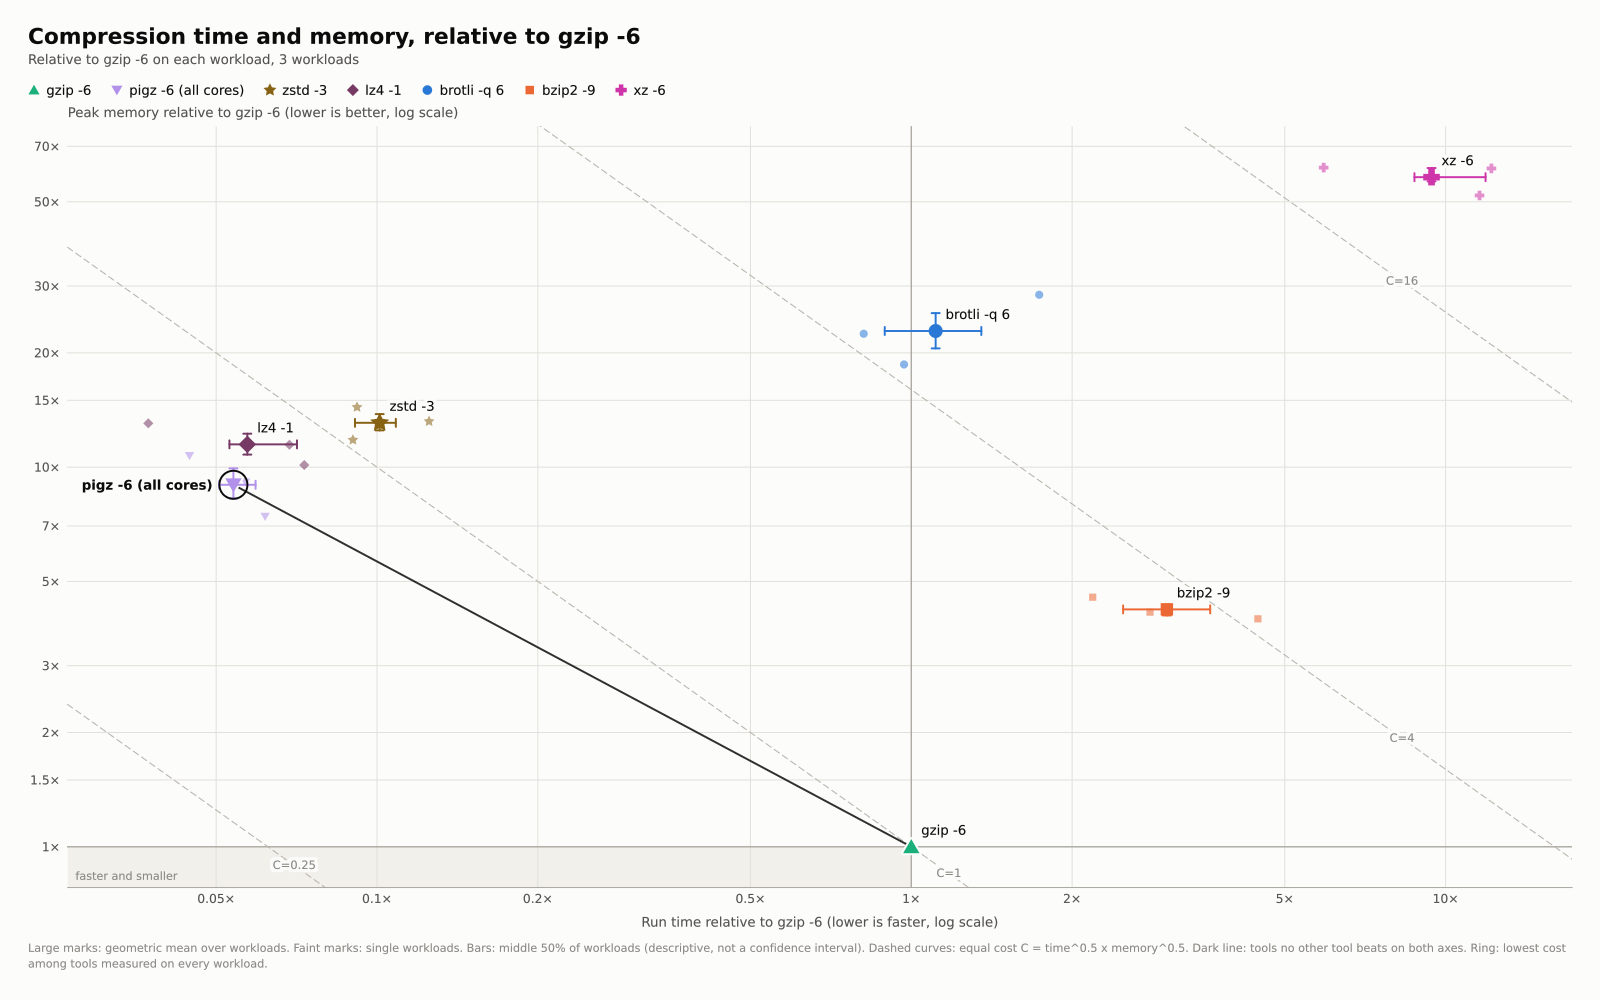
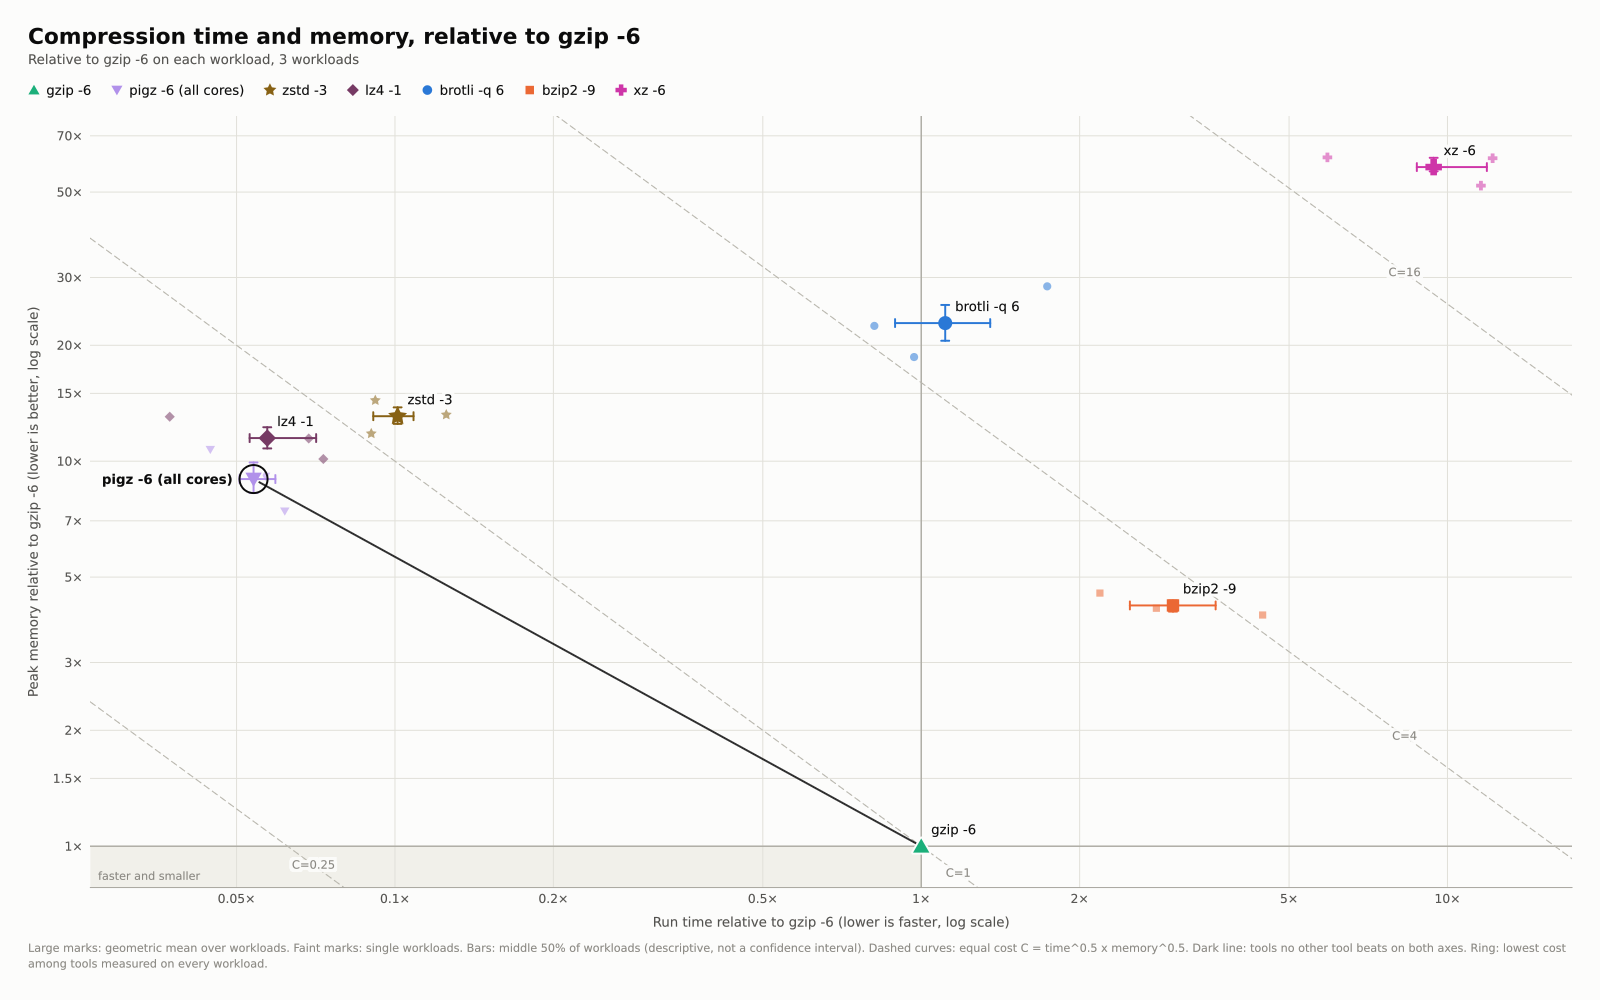
fix: change y-axis to y rotated, (was hard to see)

diff --git a/src/view_overview.c b/src/view_overview.c
@@ -187,7 +187,8 @@ Scene *view_overview(const Figure *f, const Config *c, const FigureSize *size, V
         legend_draw(sc, &st, entries, nvis, LEGEND_TOP, M, top, legend_extent);
         top += legend_h + 0.3f * u;
     }
-    float plot_top = top + 0.9f * u + font_cap_height(st.axis, 0);
+    /* Half a tick label of headroom, so the top tick label stays below the legend. */
+    float plot_top = top + 0.5f * u + 0.5f * font_cap_height(st.tick, 0);
     float bottom = (float)H - M - note_h - (note_count ? 0.6f * u : 0);
     if (c->legend == LEGEND_BOTTOM && legend_h > 0) bottom -= legend_h + 0.5f * u;
     float plot_bottom = bottom - 1.25f * st.tick - 1.0f * u - font_cap_height(st.axis, 0) - 0.4f * u;
@@ -212,7 +213,9 @@ Scene *view_overview(const Figure *f, const Config *c, const FigureSize *size, V
         axis_tick_label(&ay, yticks, ny, i, buffer, sizeof(buffer));
         ytick_w = fmaxf(ytick_w, font_width(buffer, st.tick, 0));
     }
-    ax.p0 = M + ytick_w + 0.7f * u;
+    /* The y title is turned to read bottom to top, left of the tick labels. */
+    float ytitle_x = M + font_cap_height(st.axis, 0);
+    ax.p0 = ytitle_x + font_descender(st.axis, 0) + 0.7f * u + ytick_w + 0.7f * u;
     ax.p1 = right;
     size_t nx;
     if (c->x_ticks.count) {
@@ -230,10 +233,11 @@ Scene *view_overview(const Figure *f, const Config *c, const FigureSize *size, V
     placer.fx1 = px1 - 0.2f * u;
     placer.fy1 = py1 - 0.2f * u;
 
-    /* Axis titles: y above the axis, x centered below the ticks. */
+    /* Axis titles: y turned and centered on the plot height, x centered below the ticks. */
     char *xl = expand_template(c->x_label, f), *yl = expand_template(c->y_label, f);
     snprintf(buffer, sizeof(buffer), "%s (%s%s)", yl, "lower is better", ay.log ? ", log scale" : "");
-    scene_text(sc, px0, py0 - 0.7f * u, buffer, st.axis, 0, c->ink_secondary, ANCHOR_START);
+    if (font_width(buffer, st.axis, 0) > py1 - py0) snprintf(buffer, sizeof(buffer), "%s%s", yl, ay.log ? " (log scale)" : "");
+    op_vertical(scene_text(sc, ytitle_x, (py0 + py1) / 2, buffer, st.axis, 0, c->ink_secondary, ANCHOR_MIDDLE));
     snprintf(buffer, sizeof(buffer), "%s (%s%s)", xl, "lower is faster", ax.log ? ", log scale" : "");
     scene_text(sc, (px0 + px1) / 2, py1 + 1.25f * st.tick + 1.0f * u + font_cap_height(st.axis, 0), buffer, st.axis, 0, c->ink_secondary, ANCHOR_MIDDLE);
     free(xl);

diff --git a/src/raster.c b/src/raster.c
@@ -157,6 +157,8 @@ typedef struct {
     float minx, miny, maxx, maxy;
     float px, py, sx, sy;     /* pen and subpath start, for the outline sink */
     float ox, oy, scale;      /* glyph transform: px = ox + fx*scale, py = oy - fy*scale */
+    int vertical;             /* then turn 90 degrees counterclockwise about (rx, ry) */
+    float rx, ry;
 } Edges;
 
 static void edge(Edges *e, float x0, float y0, float x1, float y1) {
@@ -279,15 +281,29 @@ static void fill_polygon(Raster *r, const float *pts, int n) {
 
 /* ---- text ----------------------------------------------------------------- */
 
+/* Font units to pixels. */
+static void glyph_point(const Edges *e, float fx, float fy, float *x, float *y) {
+    float hx = e->ox + fx * e->scale, hy = e->oy - fy * e->scale;
+    if (e->vertical) {
+        *x = e->rx + (hy - e->ry);
+        *y = e->ry - (hx - e->rx);
+    } else {
+        *x = hx;
+        *y = hy;
+    }
+}
+
 static void sink_move(void *ctx, float x, float y) {
     Edges *e = ctx;
-    e->px = e->sx = e->ox + x * e->scale;
-    e->py = e->sy = e->oy - y * e->scale;
+    glyph_point(e, x, y, &e->px, &e->py);
+    e->sx = e->px;
+    e->sy = e->py;
 }
 
 static void sink_line(void *ctx, float x, float y) {
     Edges *e = ctx;
-    float nx = e->ox + x * e->scale, ny = e->oy - y * e->scale;
+    float nx, ny;
+    glyph_point(e, x, y, &nx, &ny);
     edge(e, e->px, e->py, nx, ny);
     e->px = nx;
     e->py = ny;
@@ -295,8 +311,9 @@ static void sink_line(void *ctx, float x, float y) {
 
 static void sink_quad(void *ctx, float cx, float cy, float x, float y) {
     Edges *e = ctx;
-    float qx = e->ox + cx * e->scale, qy = e->oy - cy * e->scale;
-    float nx = e->ox + x * e->scale, ny = e->oy - y * e->scale;
+    float qx, qy, nx, ny;
+    glyph_point(e, cx, cy, &qx, &qy);
+    glyph_point(e, x, y, &nx, &ny);
     float dev = hypotf(qx - (e->px + nx) / 2, qy - (e->py + ny) / 2);
     int steps = (int)ceilf(sqrtf(dev / 0.15f));
     if (steps < 1) steps = 1;
@@ -334,6 +351,9 @@ static void text_edges(const Op *op, Edges *e) {
     edges_reset(e);
     e->scale = op->size / (float)font_units_per_em(op->bold);
     e->oy = op->y;
+    e->vertical = op->vertical;
+    e->rx = op->x;
+    e->ry = op->y;
     for (size_t i = 0; i < n; i++) {
         e->ox = x + glyphs[i].x;
         font_outline(op->bold, glyphs[i].glyph, &raster_sink, e);

diff --git a/src/pdf.c b/src/pdf.c
@@ -199,6 +199,13 @@ static void content(const Scene *scene, Str *s, Resources *r) {
             break;
         case OP_TEXT: {
             double a = op->size / (double)font_units_per_em(op->bold);
+            if (op->vertical) {
+                /* Turn 90 degrees counterclockwise on the page about the text origin. */
+                str_append(s, "q 0 -1 1 0 ");
+                num(s, op->x - op->y);
+                num(s, op->x + op->y);
+                str_append(s, "cm\n");
+            }
             if (op->halo > 0) {
                 rgb_op(s, scene->background, "RG");
                 rgb_op(s, scene->background, "rg");
@@ -210,6 +217,7 @@ static void content(const Scene *scene, Str *s, Resources *r) {
             rgb_op(s, op->fill_color, "rg");
             set_alpha(s, r, op->fill_alpha);
             text_ops(s, r, op, 0);
+            if (op->vertical) str_append(s, "Q\n");
             break;
         }
         }

diff --git a/src/svg.c b/src/svg.c
@@ -195,6 +195,13 @@ int render_svg(const Scene *scene, const char *path) {
             break;
         case OP_TEXT: {
             float scale = op->size / (float)font_units_per_em(op->bold);
+            if (op->vertical) {
+                str_append(&body, "<g transform=\"rotate(-90 ");
+                num(&body, op->x);
+                str_append(&body, " ");
+                num(&body, op->y);
+                str_append(&body, ")\">");
+            }
             str_append(&body, "<g aria-label=\"");
             xml(&body, op->text);
             str_append(&body, "\"");
@@ -218,7 +225,7 @@ int render_svg(const Scene *scene, const char *path) {
                 str_append(&body, "</title>");
             }
             glyph_uses(&body, op, used);
-            str_append(&body, "</g>\n");
+            str_append(&body, op->vertical ? "</g></g>\n" : "</g>\n");
             break;
         }
         }

diff --git a/src/canvas.h b/src/canvas.h
@@ -29,6 +29,7 @@ typedef struct {
     float size;               /* text size in pixels (em) */
     int bold;
     int anchor;
+    int vertical;             /* text turned 90 degrees counterclockwise about its origin (reads bottom to top) */
     float halo;               /* halo width in pixels, 0 = none */
     char *tooltip;            /* SVG <title> */
 } Op;
@@ -55,6 +56,7 @@ Op *op_fill(Op *op, Rgb color, float alpha);
 Op *op_stroke(Op *op, Rgb color, float width, float alpha);
 Op *op_dash(Op *op, float on, float off);
 void op_tooltip(Op *op, const char *text);
+Op *op_vertical(Op *op);
 
 /* ---- font (font.c) ---- */
 typedef struct {

diff --git a/src/canvas.c b/src/canvas.c
@@ -112,6 +112,11 @@ Op *op_dash(Op *op, float on, float off) {
     return op;
 }
 
+Op *op_vertical(Op *op) {
+    op->vertical = 1;
+    return op;
+}
+
 void op_tooltip(Op *op, const char *text) {
     free(op->tooltip);
     op->tooltip = xstrdup(text);
